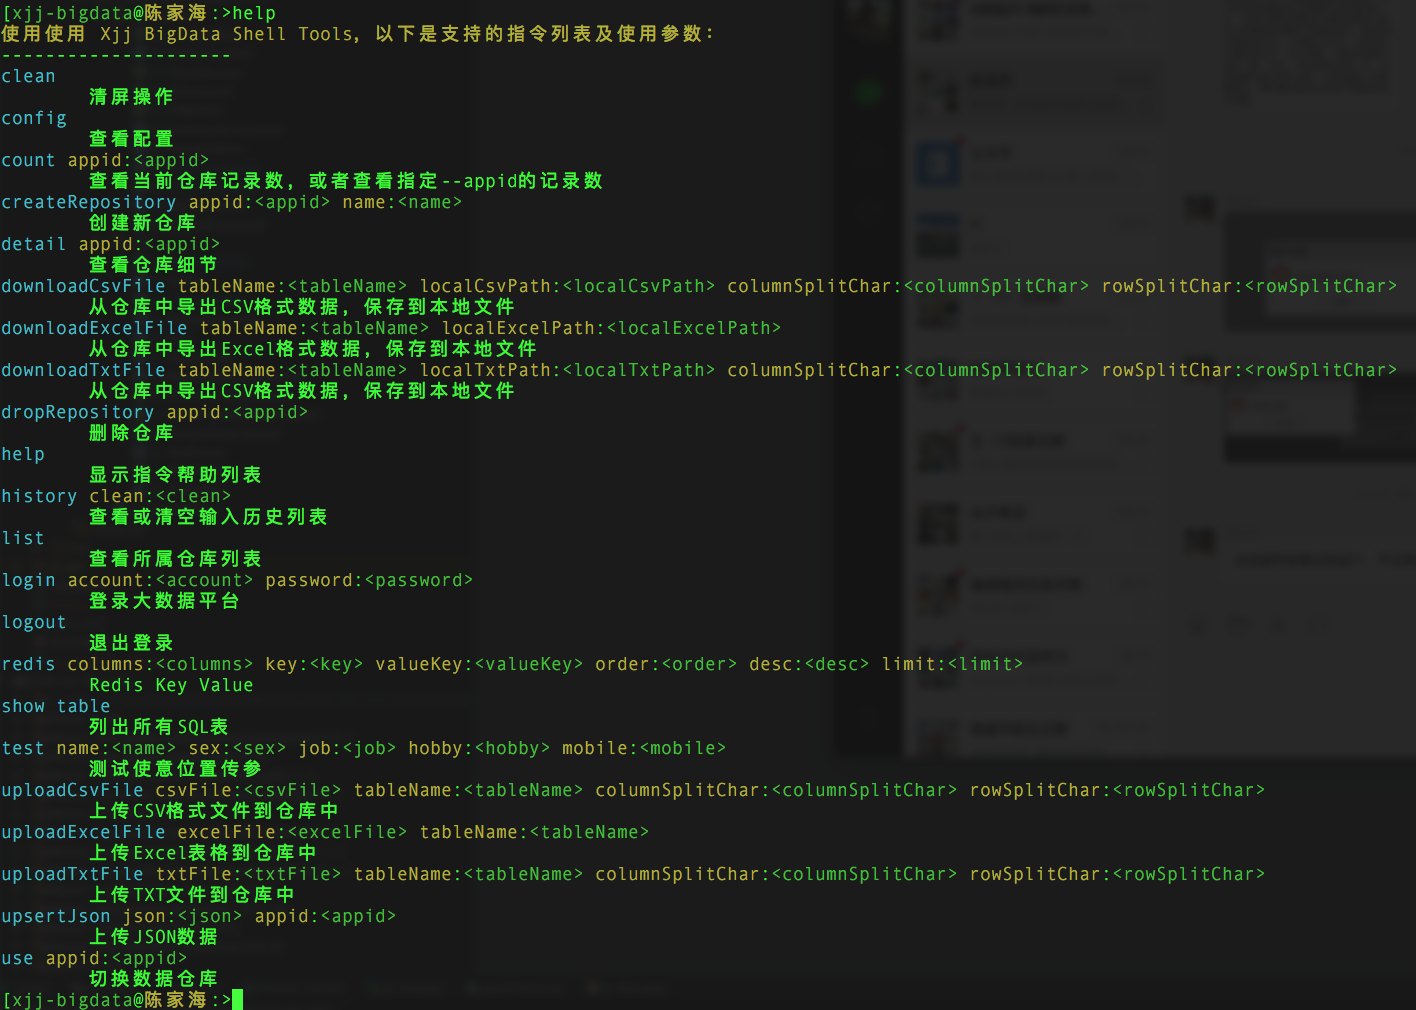
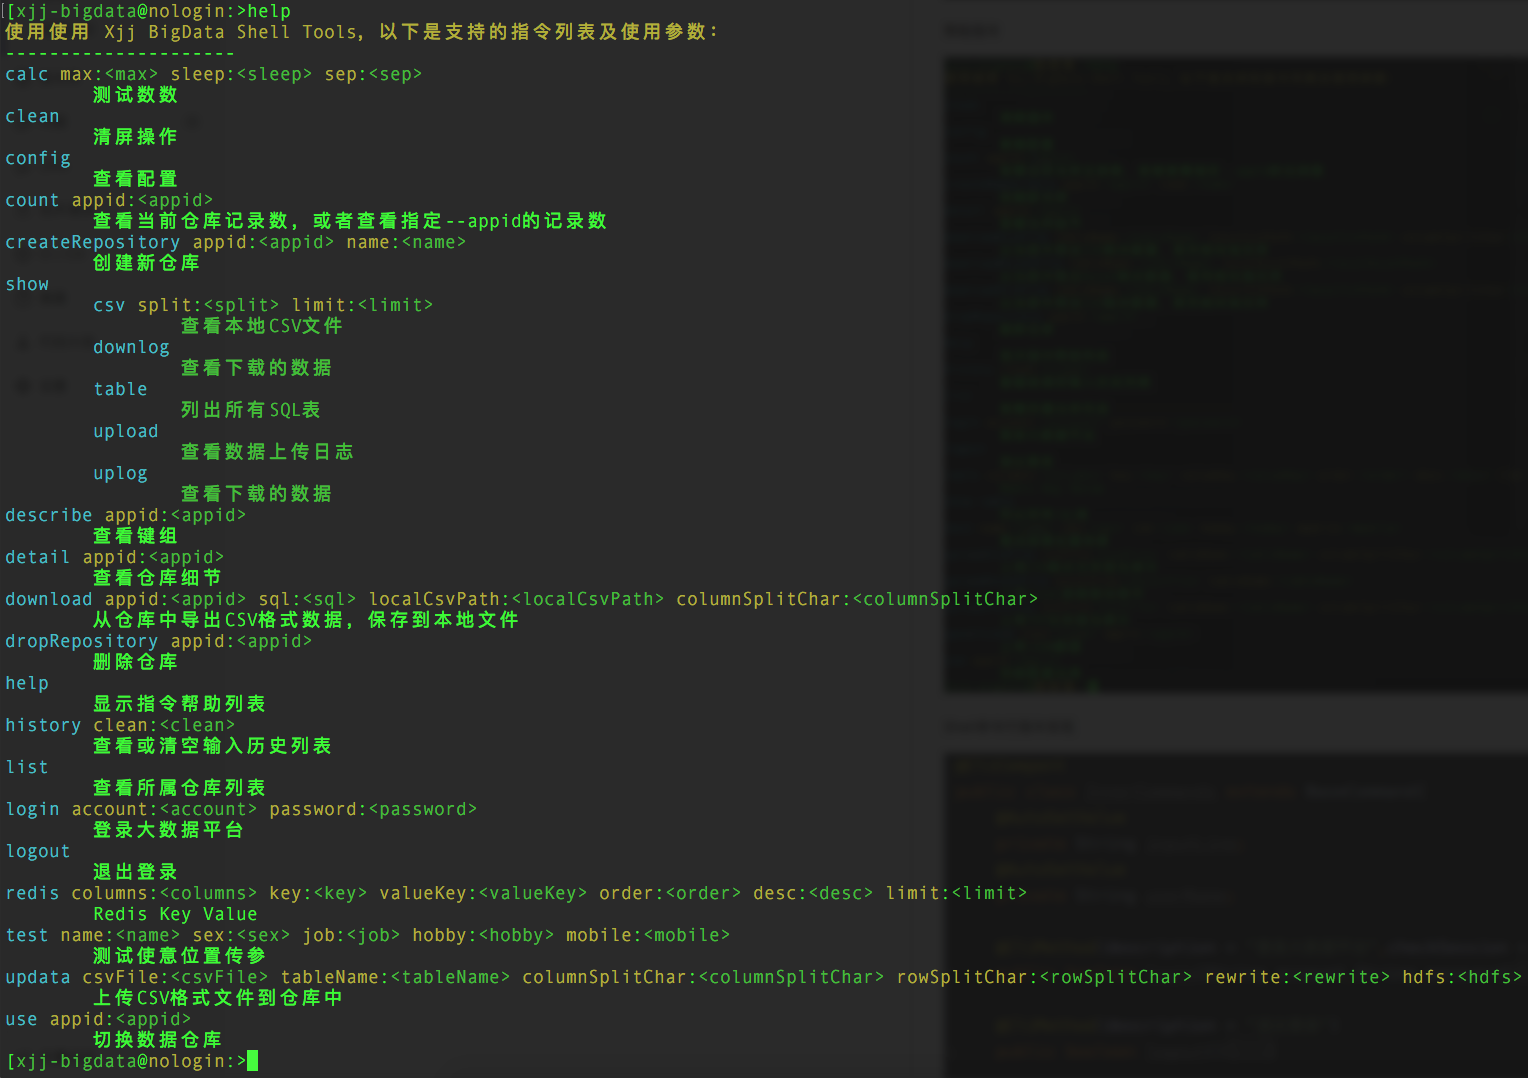
add command groups and add show csv file command.

diff --git a/src/main/java/com/xjj/tools/bigdata/tunnel/commands/DownloadCommand.java b/src/main/java/com/xjj/tools/bigdata/tunnel/commands/DownloadCommand.java
@@ -64,16 +64,16 @@ public class DownloadCommand extends BaseCommand {
             @Override
             public void onDownloadSuccess(String result) {
                 print("\n");
-                reader.printAbove(result);
                 saveDownloadLog(appid,localFile,result,true);
+                reader.printAbove(result);
             }
 
             @Override
             public void onDownloadFail(String errorMessage) {
                 print("\n");
                 red(errorMessage);
-                reader.printAbove("");
                 saveDownloadLog(appid,localFile,errorMessage,false);
+                reader.printAbove("");
             }
         });
         return true;
@@ -82,7 +82,7 @@ public class DownloadCommand extends BaseCommand {
     private void saveDownloadLog(String appid,String localFile,String message,boolean success){
         try {
             String logFile = Config.getInstance().getBasePath() + "download" + File.separator + "log";
-            JSONArray json = Func.loadJSONFromFile(localFile);
+            JSONArray json = Func.loadJSONFromFile(logFile);
             JSONObject app = GlobalValue.tables.get(appid);
             JSONObject item = new JSONObject();
             item.put("appid", appid);
@@ -151,11 +151,20 @@ public class DownloadCommand extends BaseCommand {
                         0);
                 String[] items = null;
                 ConsoleTable table = null;
+                int headCount = 0;
+                int count = 0;
                 while((items=csvReader.readNext())!=null){
                     if(table==null) {
-                        table = new ConsoleTable(items.length, false, limit);
+                        headCount= items.length;
+                        table = new ConsoleTable(headCount, false, limit);
                     }
-                    table.appendRow(items);
+                    if(items.length<=headCount) {
+                        table.appendRow(items);
+                        count++;
+                    }
+                    if(limit>0&&count>=limit){
+                        break;
+                    }
                 }
                 yellow(table.toString());
                 csvReader.close();

diff --git a/README.md b/README.md
@@ -31,6 +31,10 @@
     mvn clean package
     cd ./bin/
     ./startup.sh
+    
+    或者
+    mvn test -P main
+    
 
 ### 配置自动登录到大数据平台
     cd cli-template/conf
@@ -48,6 +52,18 @@
 
 ![help](doc/help.png)
     
-Shell命令行指令实现
+配置列表
 
-![command](doc/command.png) 
+![config](doc/config.png)
+
+Tab键自动完成指令输入
+
+![tab](doc/tab.png)
+
+Tab键选择文件列表
+
+![file-tab](doc/file-tab.png)
+
+下载进度，实现Console原位置print
+
+![download](doc/download.png)
